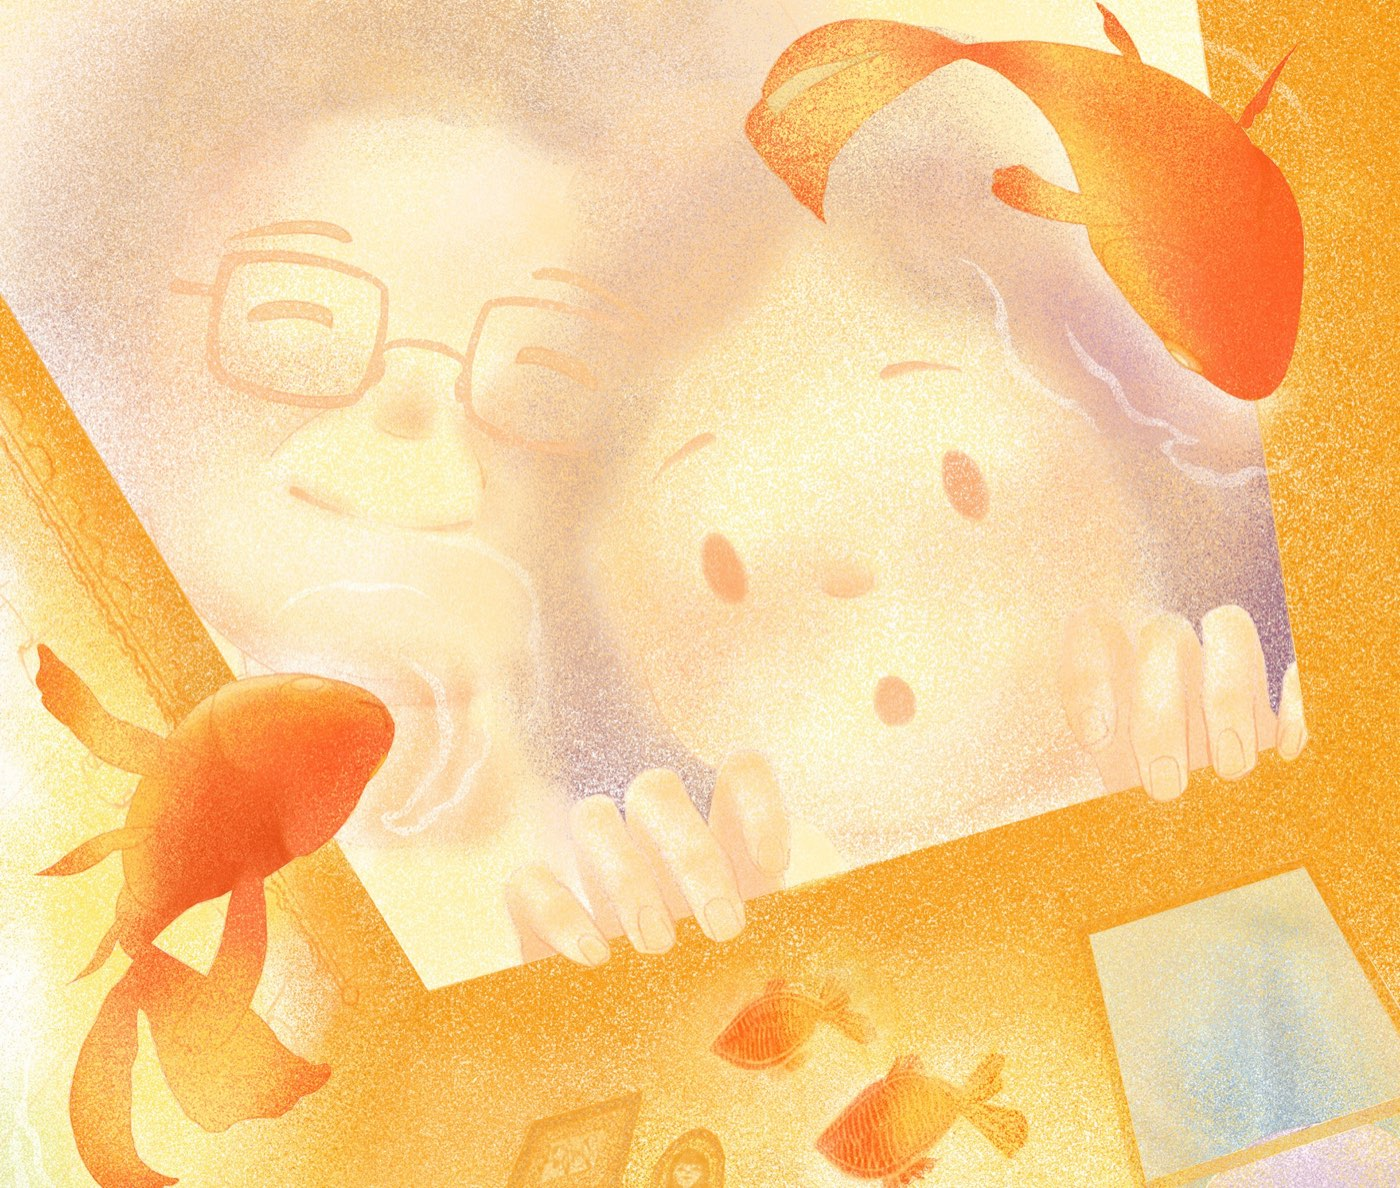
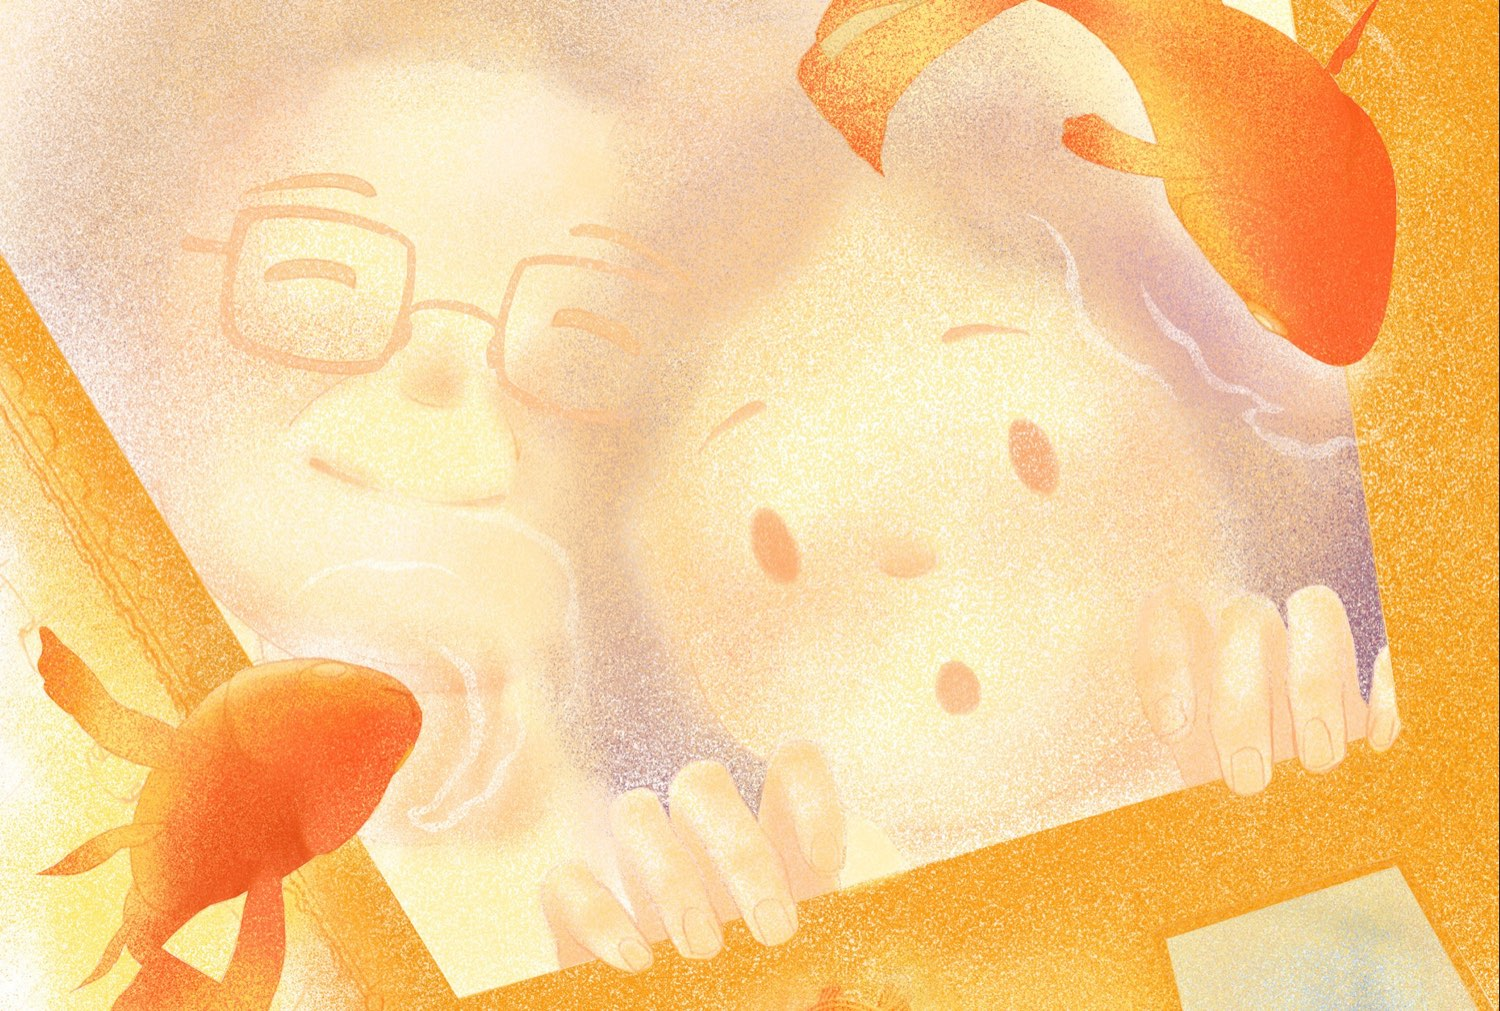
Recrop the cover so both of the girl's hands show
Nudging object-position down was not enough on its own: the old file was
the top 1800px of the painting, so a lot of what the window had to fit
was empty sky above the figures. The file is now cropped to the faces and
both hands with a little room under them (2121x1430 of the original,
served at 1500x1011), and object-position sits at 70% so that on a short
window it is the top of the heads that goes rather than her hands.

diff --git a/css/style.css b/css/style.css
@@ -877,7 +877,10 @@ a.series-block:focus-visible .series-block-cue {
   /* The source is already the top half of "Swam Across Your Wall"; anchoring to
      the top means any further cropping on wide screens takes from the bottom,
      never from the two faces. */
-  object-position: center top;
+  /* The crop is the faces and both of the girl's hands, with a little room
+     under them. Biased downwards so that on a short window it is the top of
+     the heads that goes, never her hands. */
+  object-position: center 70%;
 }
 
 .hero-overlay {
